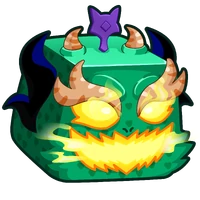
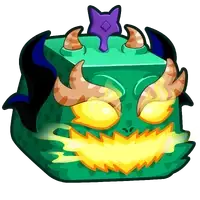
Change files to webp for faster loading

diff --git a/src/lib/data.ts b/src/lib/data.ts
@@ -42,10 +42,10 @@ export const blox = [
   { name: "Shadow", rarity: "mythical", chance: 12 },
   { name: "Venom", rarity: "mythical", chance: 10 },
   { name: "Control", rarity: "mythical", chance: 15 },
-  { name: "Gas", rarity: "mythical", chance: 8, img: "GasFruit.webp" },
+  { name: "Gas", rarity: "mythical", chance: 8 },
   { name: "Spirit", rarity: "mythical", chance: 8 },
   { name: "Leopard", rarity: "mythical", chance: 5 },
-  { name: "Yeti", rarity: "mythical", chance: 5, img: "YetiFruit.webp" },
+  { name: "Yeti", rarity: "mythical", chance: 5 },
   { name: "Kitsune", rarity: "mythical", chance: 3 },
   {
     name: "Dragon (West)",

diff --git a/src/lib/Fruit.svelte b/src/lib/Fruit.svelte
@@ -3,7 +3,7 @@
   import { rarityColor } from "./data";
   let { name, rarity, img, percentage }: FruitData & { percentage: string } =
     $props();
-  const src = $derived(img ? `/fruit/${img}` : `/fruit/${name}Fruit.png`);
+  const src = $derived(img ? `/fruit/${img}` : `/fruit/${name}Fruit.webp`);
   const color = $derived(rarityColor[rarity]);
 </script>
 
